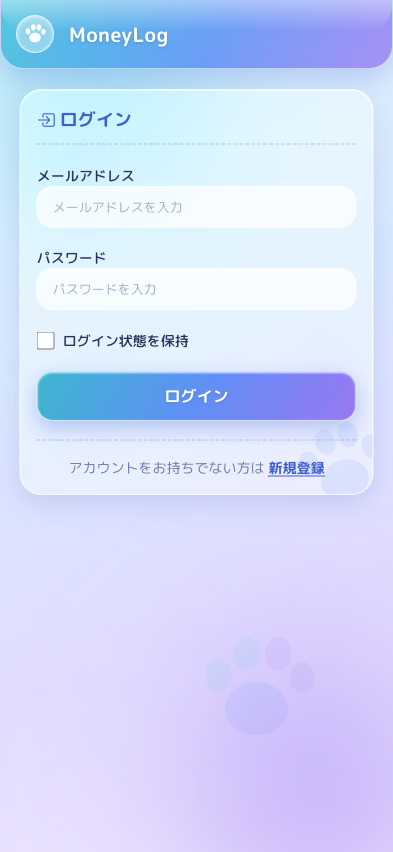
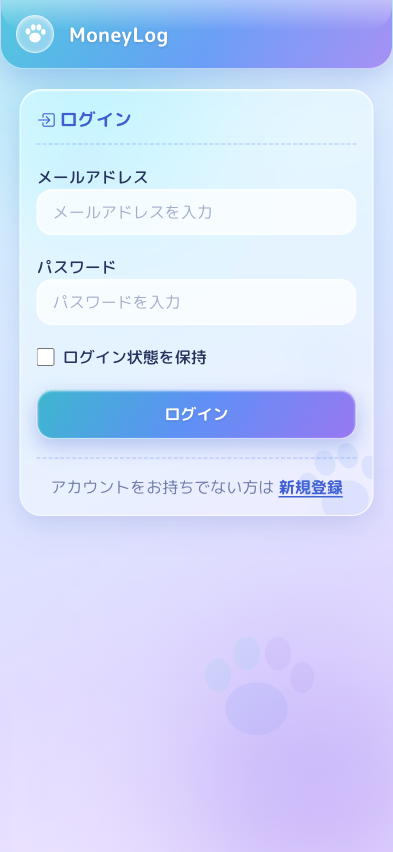
スマホ版でのフォントサイズを16pxに設定．各ボタンや入力フォームに影を追加

Changed region(s): [[0.0611, 0.1831, 0.916, 0.6103], [0.916, 0.5493, 0.9466, 0.5798], [0.0305, 0.5493, 0.0611, 0.5798]]

diff --git a/public/css/style_cat.css b/public/css/style_cat.css
@@ -34,6 +34,8 @@
     --glass-border: rgba(255, 255, 255, 0.7);
     --glass-line: rgba(91, 140, 245, 0.22);
     --glass-shadow: 0 8px 28px rgba(55, 85, 170, 0.18);
+    /* 入力欄・ボタンが白い背景に溶けないように添える、控えめな外側の影 */
+    --shadow-form: 0 2px 6px rgba(55, 85, 170, 0.16);
     --glass-blur: blur(16px) saturate(165%);
 }
 
@@ -585,7 +587,7 @@ a.add-btn:hover {
     background: rgba(255, 255, 255, 0.35);
     -webkit-backdrop-filter: blur(10px);
     backdrop-filter: blur(10px);
-    box-shadow: inset 0 1px 3px rgba(255, 255, 255, 0.7);
+    box-shadow: var(--shadow-form), inset 0 1px 3px rgba(255, 255, 255, 0.7);
     position: relative;
 }
 
@@ -646,7 +648,7 @@ a.add-btn:hover {
     background: rgba(255, 255, 255, 0.5);
     -webkit-backdrop-filter: blur(10px);
     backdrop-filter: blur(10px);
-    box-shadow: inset 0 1px 3px rgba(255, 255, 255, 0.8);
+    box-shadow: var(--shadow-form), inset 0 1px 3px rgba(255, 255, 255, 0.8);
     transition: border-color 0.2s ease, box-shadow 0.2s ease;
 }
 
@@ -700,7 +702,7 @@ a.add-btn:hover {
     background: rgba(255, 255, 255, 0.45);
     -webkit-backdrop-filter: blur(8px);
     backdrop-filter: blur(8px);
-    box-shadow: inset 0 1px 2px rgba(255, 255, 255, 0.8);
+    box-shadow: var(--shadow-form), inset 0 1px 2px rgba(255, 255, 255, 0.8);
     transition: transform 0.15s ease, background-color 0.2s ease, color 0.2s ease;
 }
 
@@ -729,7 +731,7 @@ a.add-btn:hover {
     background: rgba(255, 255, 255, 0.5);
     -webkit-backdrop-filter: blur(10px);
     backdrop-filter: blur(10px);
-    box-shadow: inset 0 1px 3px rgba(255, 255, 255, 0.8);
+    box-shadow: var(--shadow-form), inset 0 1px 3px rgba(255, 255, 255, 0.8);
     color: var(--color-text);
     color-scheme: light;
     transition: border-color 0.2s ease, box-shadow 0.2s ease;
@@ -746,7 +748,7 @@ a.add-btn:hover {
     background: rgba(255, 255, 255, 0.5);
     -webkit-backdrop-filter: blur(10px);
     backdrop-filter: blur(10px);
-    box-shadow: inset 0 1px 3px rgba(255, 255, 255, 0.8);
+    box-shadow: var(--shadow-form), inset 0 1px 3px rgba(255, 255, 255, 0.8);
     color: var(--color-text);
     transition: border-color 0.2s ease, box-shadow 0.2s ease;
 }
@@ -795,6 +797,7 @@ button.btn-large:hover {
     background: rgba(255, 255, 255, 0.35);
     -webkit-backdrop-filter: blur(8px);
     backdrop-filter: blur(8px);
+    box-shadow: var(--shadow-form);
     transition: all 0.2s ease;
     margin-top: 20px;
 }
@@ -808,6 +811,19 @@ button.btn-large:hover {
 /* ////////////////////////////////// */
 /* ログイン / 新規登録画面 */
 /* ////////////////////////////////// */
+
+/* この2画面は入力が中心なので、文字を 16px にして読みやすくする。
+   .card の 13px を確実に上書きするため、クラスを2つ重ねて指定している。
+   入力欄は reset.css の `font: inherit` でこの 16px を受け継ぐ
+   （iOS Safari は 16px 未満の入力欄にフォーカスすると自動で拡大するので、その防止にもなる） */
+.card.auth-card {
+    font-size: 16px;
+}
+
+/* 項目名のクラスは新規登録・編集画面と共用しているので、この画面だけ上書きする */
+.auth-card .input-title {
+    font-size: 16px;
+}
 
 /* メールアドレス・パスワードなどの入力欄 */
 .auth-input {
@@ -834,7 +850,7 @@ button.btn-large:hover {
     align-items: center;
     gap: 8px;
     margin-bottom: 20px;
-    font-size: 14px;
+    font-size: 16px;
     color: var(--color-text-sub);
 }
 
@@ -861,7 +877,7 @@ button.btn-large:hover {
     padding-top: 16px;
     border-top: 2px dashed var(--glass-line);
     text-align: center;
-    font-size: 14px;
+    font-size: 16px;
     color: var(--color-text-sub);
     position: relative;
 }

diff --git a/resources/views/signup.blade.php b/resources/views/signup.blade.php
@@ -6,7 +6,7 @@
         @include('common.header')
         <main>
             <div class="inner-wrap">
-                <div class="card">
+                <div class="card auth-card">
                     <h2><i class="bi bi-box-arrow-in-right"></i> サインアップ</h2>
                     <hr>
                     @if ($errors->any())

diff --git a/resources/views/login.blade.php b/resources/views/login.blade.php
@@ -6,7 +6,7 @@
         @include('common.header')
         <main>
             <div class="inner-wrap">
-                <div class="card">
+                <div class="card auth-card">
                     <h2><i class="bi bi-box-arrow-in-right"></i> ログイン</h2>
                     <hr>
                     @if ($errors->any())
